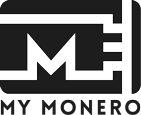
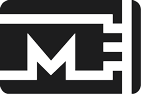
Downloads: restyle section 'Mobile & Light Wallets'
- Edited logos of the wallets and resized a couple of them to save space
- Introduced two different layouts for desktop and mobile
- Added table to desktop layout showing the platforms supported by the wallet and a link to its source code
- Moved entire section up (under 'CLI wallet') and adapted selector on top of the page
- Changed CSS of span elements to make them available in the whole page
- Added 'Browser' icon to monero-spritesheet.png

diff --git a/css/custom.css b/css/custom.css
@@ -3130,44 +3130,86 @@ footer {
     vertical-align: middle;
 }
 
-.download-platforms span.icon-windows {
+span.icon-windows {
     background-image: url(../img/monero-spritesheet.png);
     background-position: -96px 0;
 }
 
-.download-platforms span.icon-apple {
+span.icon-apple {
     background-image: url(../img/monero-spritesheet.png);
     background-position: -96px -96px;
 }
 
-.download-platforms span.icon-linux{
+span.icon-linux{
     background-image: url(../img/monero-spritesheet.png);
     background-position: -96px -48px;
 }
 
-.download-platforms span.icon-arm {
+span.icon-arm {
     background-image: url(../img/monero-spritesheet.png);
     background-position: 0 -176px;
 }
 
-.download-platforms span.icon-freebsd {
+span.icon-freebsd {
     background-image: url(../img/monero-spritesheet.png);
     background-position: 0 -208px;
 }
 
-.download-platforms span.icon-dragonflybsd {
+span.icon-dragonflybsd {
     background-image: url(../img/monero-spritesheet.png);
     background-position: 0 -287px;
 }
 
-.download-platforms span.icon-github {
+span.icon-github {
     background-image: url(../img/monero-spritesheet.png);
     background-position: 0 -240px;
 }
 
-.download-platforms span.icon-android {
+span.icon-android {
   background-image: url(../img/monero-spritesheet.png);
   background-position: 0 -321px;
+}
+
+span.icon-browser {
+  background-image: url(../img/monero-spritesheet.png);
+  background-position: 0 -355px;
+}
+
+.downloads a#ext-noicon {
+  border-bottom: none;
+}
+
+.downloads td img {
+  display: inline-block;
+  padding: 0;
+  padding-right: 0.5rem;
+  height: 20px;
+  vertical-align: middle;
+}
+
+.downloads table {
+  width: 100%;
+  margin-top: 1rem;
+}
+
+.downloads table, th, td {
+  border-collapse: collapse;
+  padding: 10px;
+}
+
+.downloads th {
+  text-align: left;
+}
+
+.downloads .mobile-only ul {
+  padding-left: 0;
+}
+
+.downloads .mobile-only img {
+  width: 60px;
+  display: inline-block;
+  vertical-align: middle;
+  margin-top: 0;
 }
 
 .downloads a.arrow-up {

diff --git a/downloads/index.md b/downloads/index.md
@@ -14,9 +14,9 @@ permalink: /downloads/index.html
         <div class="info-block download-nav row middle-xs between-xs" id="selections">
             <div class="col"><a href="#gui">{% t downloads.gui %}</a></div>
             <div class="col"><a href="#cli">{% t downloads.cli %}</a></div>
+            <div class="col"><a href="#mobilelight">{% t downloads.mobilelight %}</a></div>
             <div class="col"><a href="#blockchain">{% t downloads.blockchain %}</a></div>
             <div class="col"><a href="#hardware">{% t downloads.hardware %}</a></div>
-            <div class="col"><a href="#mobilelight">{% t downloads.mobilelight %}</a></div>
         </div>
     </div>
     <!-- End downloads menu: desktop -->
@@ -29,9 +29,9 @@ permalink: /downloads/index.html
             <ul id="menu">
               <li><a href="#gui">{% t downloads.gui %}</a></li>
               <li><a href="#cli">{% t downloads.cli %}</a></li>
+              <li><a href="#mobilelight">{% t downloads.mobilelight %}</a></li>
               <li><a href="#blockchain">{% t downloads.blockchain %}</a></li>
               <li><a href="#hardware">{% t downloads.hardware %}</a></li>
-              <li><a href="#mobilelight">{% t downloads.mobilelight %}</a></li>
             </ul>
           </div>
       </div>
@@ -227,6 +227,58 @@ permalink: /downloads/index.html
         </div>
       </section>
       <!-- End 'CLI Wallet' -->
+      <section class="container full">
+            <!-- 'Mobile & Light Wallets' -->
+            <div class="info-block">
+                <h2 id="mobilelight">{% t downloads.mobilelight %}</h2>
+                    <div class="row">
+                        <div class="col-md-12 col-sm-12 col-xs-12">
+                            <p>{% t downloads.mobilelight1 %} <a href="/community/hangouts/"> {% t downloads.mobilelight2 %}</a> {% t downloads.mobilelight3 %}</p>
+                        </div>
+                    </div>
+                        <table class="desktop-only">
+                        <tr>
+                            <th>Wallet</th>
+                            <th>Mobile</th>
+                            <th>Desktop</th>
+                            <th>Source Code</th>
+                        </tr>
+                        <tr>
+                            <td><img src="/img/cakewallet.png" alt="Cake Wallet Logo"><a href="https://cakewallet.com/">Cake Wallet</a></td>
+                            <td><span class="icon-android"></span><span class="icon-apple"></span></td>
+                            <td>X</td>
+                            <td><a id="ext-noicon" href="https://github.com/cake-tech/cake_wallet"><span class="icon-github"></span></a></td>
+                        </tr>
+                        <tr>
+                            <td><img src="/img/Monerujo-wallet.png" alt="Monerujo logo"><a href="https://monerujo.io/">Monerujo</a></td>
+                            <td><span class="icon-android"></span></td>
+                            <td>X</td>
+                            <td><a id="ext-noicon" href="https://github.com/m2049r/xmrwallet"><span class="icon-github"></span></a></td>
+                        </tr>
+                        <tr>
+                            <td><img src="/img/mymonero.png" alt="Mymonero logo" style="height: 15px;"><a href="https://mymonero.com/">MyMonero</a></td>
+                            <td><span class="icon-apple"></span></td>
+                            <td><span title="Browser" class="icon-browser"></span><span class="icon-linux"></span><span class="icon-windows"></span><span class="icon-apple"></span></td>
+                            <td><a id="ext-noicon" href="https://github.com/mymonero"><span class="icon-github"></span></a></td>
+                        </tr>
+                        <tr>
+                            <td><img src="/img/edge-wallet.png" alt="Edge Logo"><a href="https://edge.app/">Edge</a></td>
+                            <td><span class="icon-android"></span><span class="icon-apple"></span></td>
+                            <td>X</td>
+                            <td><a id="ext-noicon" href="https://github.com/EdgeApp"><span class="icon-github"></span></a></td>
+                        </tr>
+                        </table>
+                        <div class="row between-xs mob-wallets mobile-only">
+                            <ul>
+                                <li><a id="ext-noicon" href="https://cakewallet.io"><img style="width: 50px" src="/img/cakewallet.png" alt="Cake Wallet Logo">Cake Wallet</a></li>
+                                <li><a id="ext-noicon" href="https://monerujo.io"><img src="/img/Monerujo-wallet.png" alt="Monerujo Logo">Monerujo</a></li>
+                                <li><a id="ext-noicon" href="https://mymonero.com"><img src="/img/mymonero.png" alt="MyMonero Logo">MyMonero</a></li>
+                                <li><a id="ext-noicon" href="https://edge.app/"><img src="/img/edge-wallet.png" alt="Edge Logo">Edge</a></li>
+                            </ul>
+                        </div>
+            </div>
+            <!-- End 'Mobile & Light Wallets' -->
+            </section>
             <section class="container full">
                 <!-- 'Import Blockchain' -->
                 <div class="info-block">
@@ -261,24 +313,6 @@ permalink: /downloads/index.html
                         </div>                    
                 </div>
                 <!-- End 'Hardware Wallets' -->
-            </section>
-            <section class="container full">
-                <!-- 'Mobile & Light Wallets' -->
-                <div class="info-block">
-                  <h2 id="mobilelight">{% t downloads.mobilelight %}</h2>
-                        <div class="row">
-                            <div class="col-md-12 col-sm-12 col-xs-12">
-                                <p>{% t downloads.mobilelight1 %} <a href="/community/hangouts/"> {% t downloads.mobilelight2 %}</a> {% t downloads.mobilelight3 %}</p>
-                            </div>
-                        </div>
-                        <div class="row between-xs mob-wallets">
-                                <a href="https://cakewallet.io"><img style="height: 115px;"  src="/img/cakewallet.png" alt="Cake Wallet Logo"></a>
-                                <a href="https://monerujo.io"><img style="height: 115px;" src="/img/Monerujo-wallet.png" alt="Monerujo Logo"></a>
-                                <a href="https://mymonero.com"><img src="/img/mymonero.png" alt="MyMonero Logo"></a>
-                                <a href="https://edge.app/"><img style="height: 115px;" src="/img/edge-wallet.png" alt="Edge Logo"></a>
-                        </div>
-                </div>
-                <!-- End 'Mobile & Light Wallets' -->
             </section>
     </div>
     <a href="#" class="arrow-up"><i></i></a>
